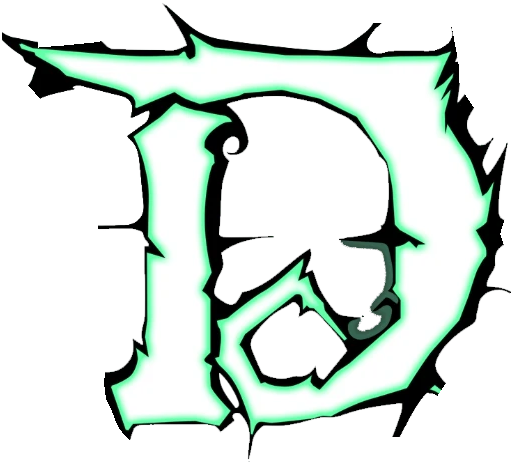
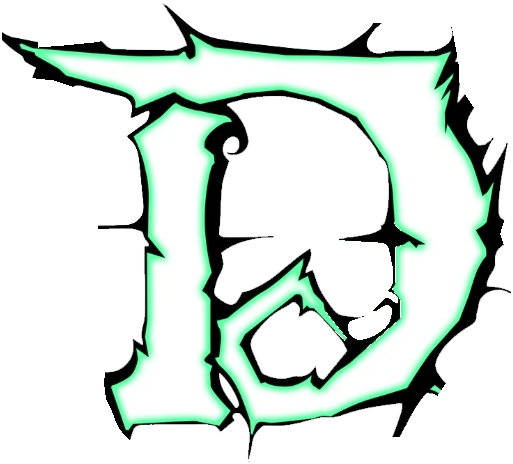
Hades II D: no dark green mark inside its bowl, no black chunk under its top-left
logo_letters.py's erase can take a colour, so only that colour inside the
polygon goes: the dark green mark inside the D goes and the black outline
round it stays.

Claude-Session: https://claude.ai/code/session_01LaEujuuQLDmiMkvddHrYGk

Changed region(s): [[0.655, 0.5129, 0.7797, 0.7543], [0.0624, 0.1509, 0.1559, 0.2112]]

diff --git a/tools/logo_letters.py b/tools/logo_letters.py
@@ -75,8 +75,10 @@ so Godot never imports the source), is JSON:
                   {"min_green": n, "max_red": n}} — a shape behind the letters,
                   found as big regions of its colour (so a letter's own glow of
                   that colour is never it) and followed out through its glow;
-                  "erase": [{"piece": name, "polygon": [[x, y], ...]}] — cut
-                  away by hand (bits of the background's outline)}
+                  "erase": [{"piece": name, "polygon": [[x, y], ...],
+                  "colour": [r, g, b], "tolerance": n}] — cut away by hand
+                  (bits of the background's outline); with a colour, only that
+                  colour inside the polygon goes (a mark, not the ink round it)}
     smooth        default true. false keeps the fill's own edge, spikes and all
                   (Hades' thorns), instead of smoothing it and opening/closing it
     shadow        default true (measured and re-cast). false for a logo whose
@@ -360,7 +362,10 @@ def cut(cfg_path: Path, preview: Path | None = None) -> list[Path]:
                              & (d_other > ex.get("clear", 4)))
             for er in cut.get("erase", []):
                 if er["piece"] == n:
-                    keep &= ~_polygon_mask((H, W), er["polygon"])
+                    gone = _polygon_mask((H, W), er["polygon"])
+                    if "colour" in er:  # only that colour inside it (a mark, not the ink round it)
+                        gone &= np.abs(A[..., :3] - np.array(er["colour"])).max(-1) <= er.get("tolerance", 40)
+                    keep &= ~gone
             # only what is joined to the letter (diagonals count: a thorn's tip
             # is often a pixel wide)
             lab_k, _ = nd.label(keep, structure=np.ones((3, 3)))
